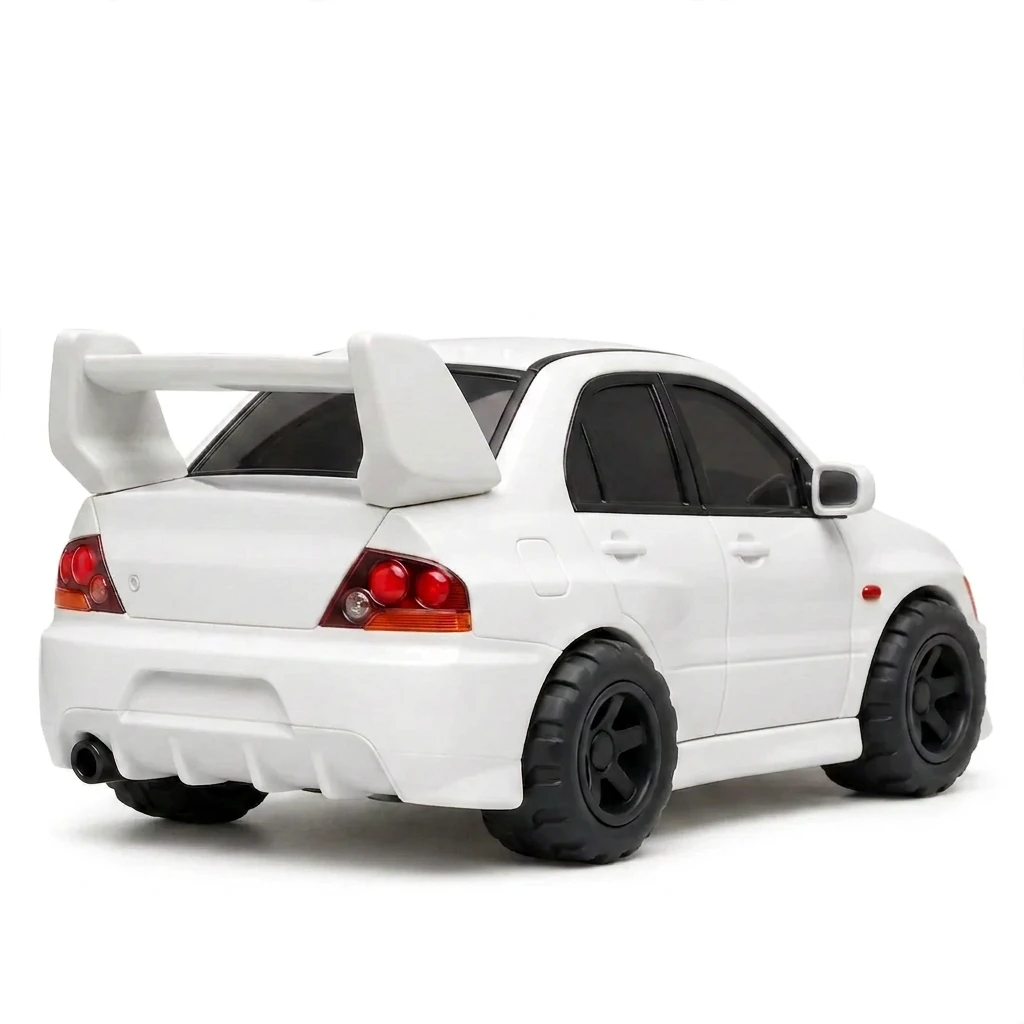
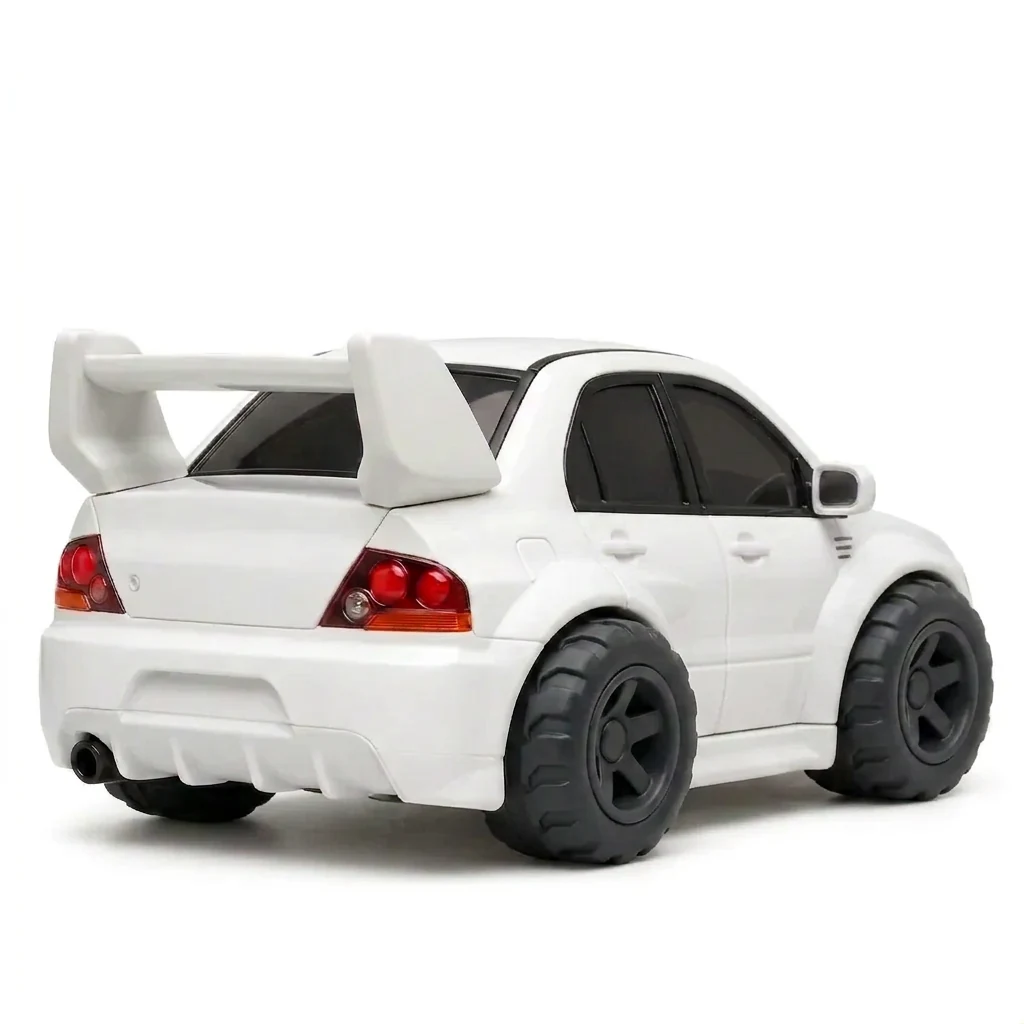
Coherencia de fotos: corrige Eclipse y Evo + auditoria de los 15 modelos
Eclipse: eclipse-front.webp y eclipse-rear.webp eran dos miniaturas
distintas (aleron tipo asa vs aleron GT, llantas y neumaticos distintos).
Se adopta el aleron GT de la vista trasera como diseno oficial y se
regenera la vista frontal con esa pieza.

Evo: misma miniatura pero distinto grado de deformacion chibi entre
vistas. Se adopta la filosofia del frontal (chibi acentuado) y se
regenera la vista trasera con esas proporciones.

Auditoria de los 15 modelos en produccion/auditoria-fotos/: los otros
13 son coherentes. Originales preservados en los directorios -fix.

diff --git a/produccion/auditoria-fotos/INFORME.md b/produccion/auditoria-fotos/INFORME.md
@@ -1,0 +1,101 @@
+# Auditoría de coherencia de fotos de producto
+
+15 modelos × 2 vistas (`-front.webp` / `-rear.webp`). Se comprueba que ambas vistas
+correspondan **a la misma miniatura**: mismo alerón, mismas llantas, mismo kit de
+carrocería, mismo color y mismo nivel de detalle.
+
+Fecha: 25/08/2026 · Pares comparativos en esta misma carpeta (`<modelo>.jpg`).
+
+---
+
+## Resumen
+
+| Estado | Modelos |
+|---|---|
+| ✅ Coherente | R34, R32, 350Z, Supra, AE86, MR2, RX-7, NSX, Civic, S2000, 3000GT, WRC, LFA |
+| 🔧 Corregido | Eclipse, Evo |
+
+**13 de 15 estaban correctos. Los 2 restantes se han corregido.** Colección coherente al 100 %.
+
+---
+
+## 🔧 Eclipse — CORREGIDO
+
+Era el fallo grave: las dos fotos eran **dos miniaturas distintas**.
+
+| | Front (antigua) | Rear |
+|---|---|---|
+| Alerón | Macizo tipo "asa" cerrada, pieza única | GT de competición: doble plano + gurney, dos montantes centrales, placas laterales con relieve y 3 agujeros |
+| Llantas | 5 radios rectos y planos | 5 radios cóncavos con buje pronunciado |
+| Neumático | Liso, sin dibujo | Con dibujo de banda de rodadura |
+| Carrocería | Lisa, poco detalle | Líneas de puerta, tornillería, taloneras esculpidas |
+
+**Decisión: el alerón GT de la vista trasera es el diseño oficial.**
+
+`public/images/eclipse-front.webp` regenerado con ese alerón (propuesta B), a 1100×733 WebP,
+manteniendo ángulo, color, faros, parachoques y fondo originales.
+
+- Original preservado en `produccion/eclipse-fix/original-backup/eclipse-front-ORIGINAL.webp`
+- Propuesta A descartada en `produccion/eclipse-fix/eclipse-front-propuesta-A.jpg`
+- Resultado verificado en `eclipse-CORREGIDO.jpg`
+
+---
+
+## 🔧 Evo — CORREGIDO
+
+Era **la misma miniatura** (mismo alerón blanco de doble montante, mismo kit, mismo color),
+pero con distinto **grado de deformación chibi**:
+
+- **Front**: muy caricaturizado. Distancia entre ejes muy corta, ruedas enormes tipo
+  monster-truck, carrocería achatada.
+- **Rear (antigua)**: proporciones bastante más realistas. Berlina de 4 puertas casi
+  normal, ruedas proporcionadas.
+
+Puestas una al lado de otra no parecían la misma escala de estilización, lo que rompía la
+uniformidad frente al resto de la colección.
+
+**Decisión: manda la filosofía de la vista delantera — estilo chibi acentuado.**
+
+`public/images/evo-rear.webp` regenerado con las proporciones exageradas del frontal
+(batalla corta, carrocería compacta, ruedas grandes de taco con llanta gris de 5 radios),
+conservando alerón, pilotos, difusor, escape, cristales tintados, color y encuadre.
+Se mantiene a 1024×1024 WebP, su resolución original.
+
+- Original preservado en `produccion/evo-fix/original-backup/evo-rear-ORIGINAL.webp`
+- Propuesta A descartada en `produccion/evo-fix/evo-rear-propuesta-A.jpg`
+- Resultado verificado en `evo-CORREGIDO.jpg`
+
+Este criterio queda fijado para futuras generaciones: **el estilo de referencia de la
+colección es el chibi acentuado**, coherente con Civic, WRC y R32.
+
+---
+
+## Observación adicional: resoluciones desiguales
+
+No afecta a la coherencia del producto pero sí a la calidad percibida y al uso como
+referencia 3D:
+
+| Resolución | Modelos |
+|---|---|
+| 1100×733 en ambas | 350Z, Eclipse, R32 |
+| 1100×733 front / 1024×1024 rear | 3000GT, Civic, Evo, LFA, NSX, RX-7, S2000, Supra, WRC |
+| 1100×733 front / 1100×1100 rear | AE86, MR2 |
+| 1024×1024 en ambas | R34, Gold |
+
+Casos sueltos: `lfa-front.webp` mide 1100×**734** (un píxel de más).
+
+Meshy recomienda ≥1040×1040 px. Si se van a generar mallas 3D del resto de modelos como
+se hizo con el R34, conviene homogeneizar a un tamaño único y subir resolución.
+
+---
+
+## Método
+
+```bash
+# par comparativo por modelo
+convert <m>-front.webp -resize 900x900 -gravity center -background white -extent 920x920 _f.png
+convert <m>-rear.webp  -resize 900x900 -gravity center -background white -extent 920x920 _r.png
+montage _f.png _r.png -tile 2x1 -geometry +8+8 -background '#DDDDDD' <m>.png
+```
+
+Revisión visual de alerón, llantas, neumáticos, kit de carrocería, color y nivel de detalle.
